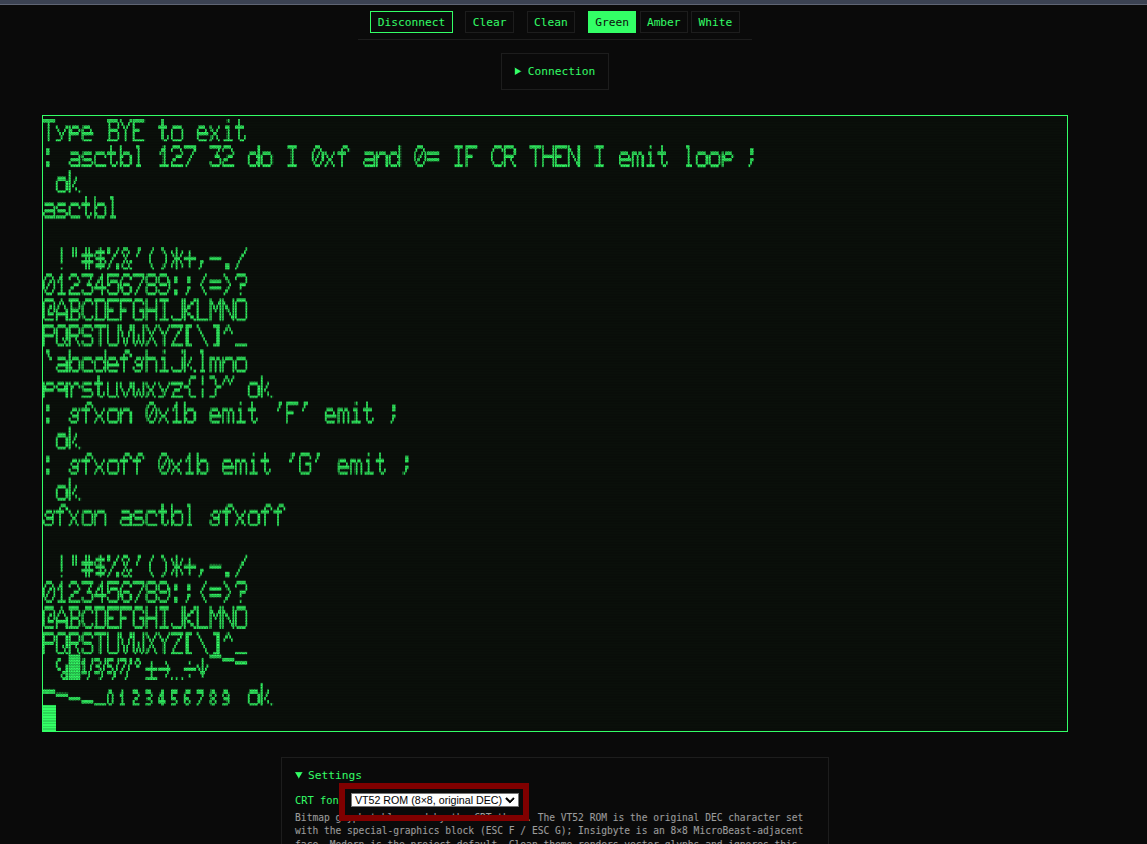
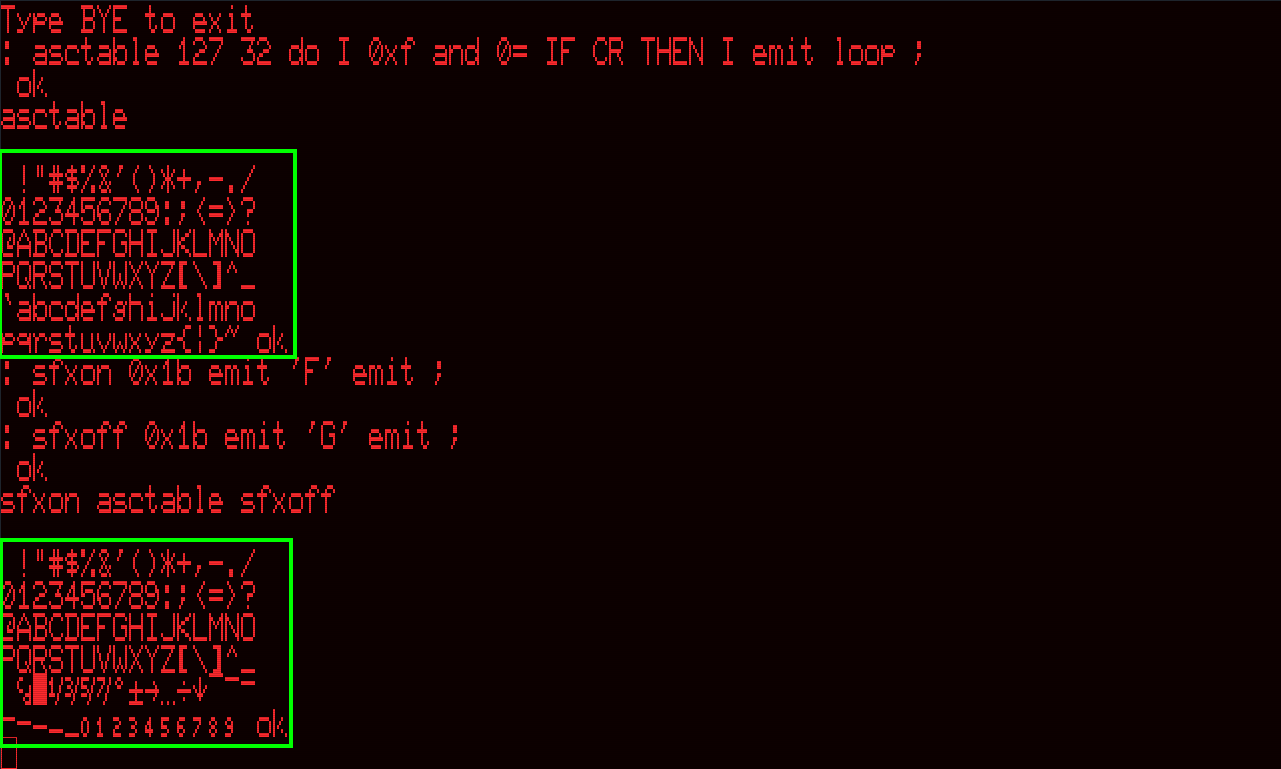
update README

Changed region(s): [[0.0, 0.0, 1.0, 1.0], [0.6103, 0.156, 0.6408, 0.2185]]

diff --git a/www/index.html b/www/index.html
@@ -667,7 +667,7 @@
     .pp-row:hover .pp-detail,
     .pp-row:focus-within .pp-detail,
     .pp-row .pp-detail:focus-visible { opacity: 1; }
-    .pp-row:hover .pp-detail { color: var(--chrome-bg); }
+    .pp-row:hover .pp-detail { color: var(--chrome-fg); }
     .pp-row .pp-detail:focus-visible {
       outline: 2px solid var(--chrome-accent); outline-offset: 1px; border-radius: 3px;
     }

diff --git a/README.md b/README.md
@@ -142,6 +142,15 @@ with all the selected filenames in it!
 Press `Esc`, or click `[Cancel]` on the floating SLIDE chip, to abort an
 in-flight send or receive. The wire returns to a clean CP/M prompt.
 
+### Checksums
+
+You can generate checksums on the MicroBeast side using my [CSUM](https://github.com/blowback/csum) utility,
+and compare them with the automatically generated equivalents in BeasTTY'starts
+filer pane:
+
+![CRC-32 checksumos](images/crc.png)
+
+
 ### Working with legacy `slide.com` (no wakeup)
 
 Detection of inbound transfers and the auto-typed-command handshake both
